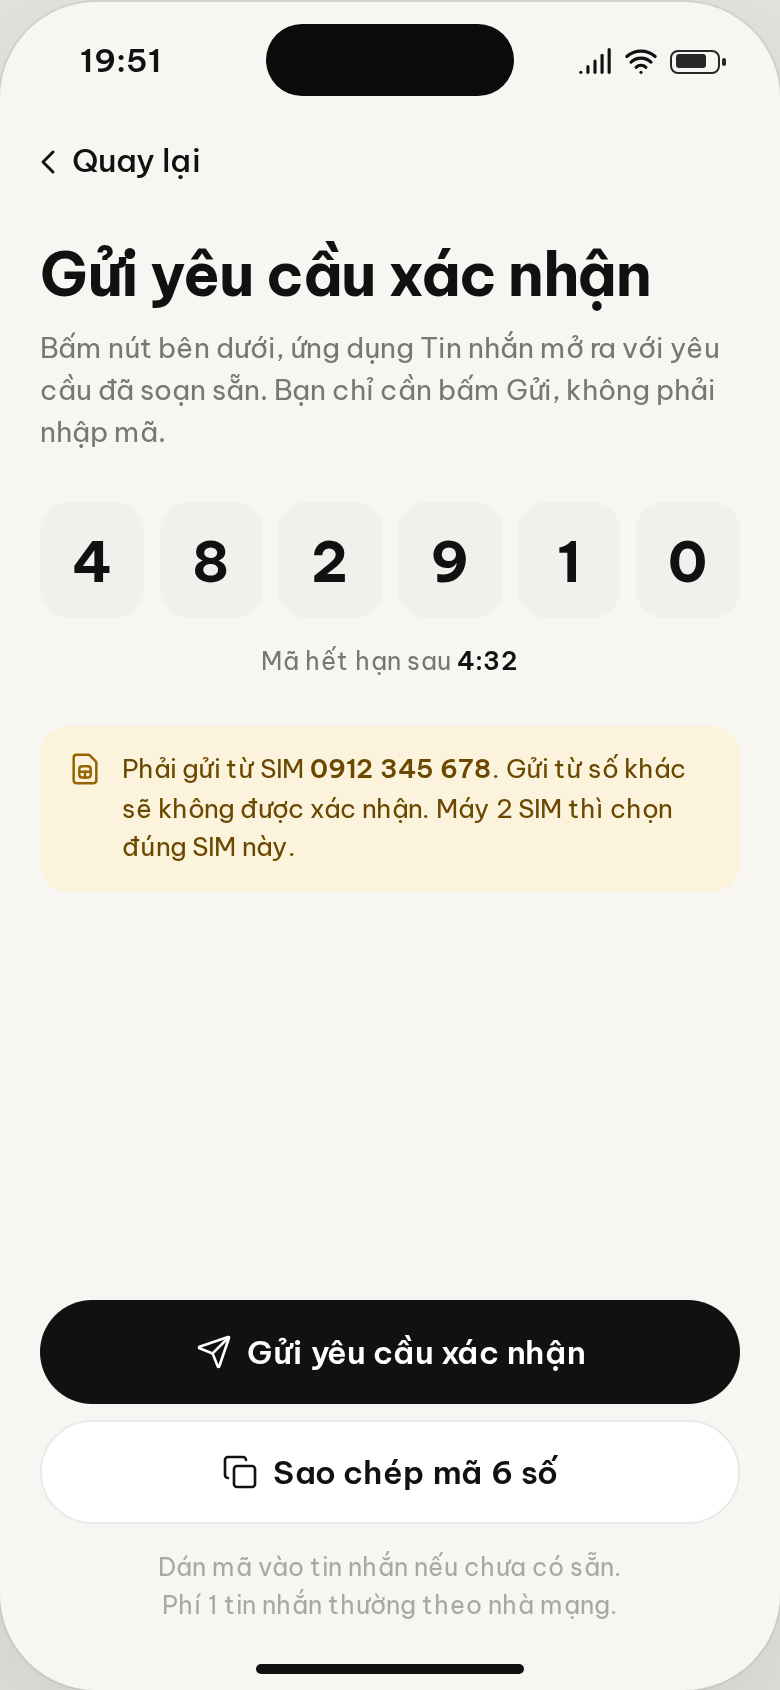
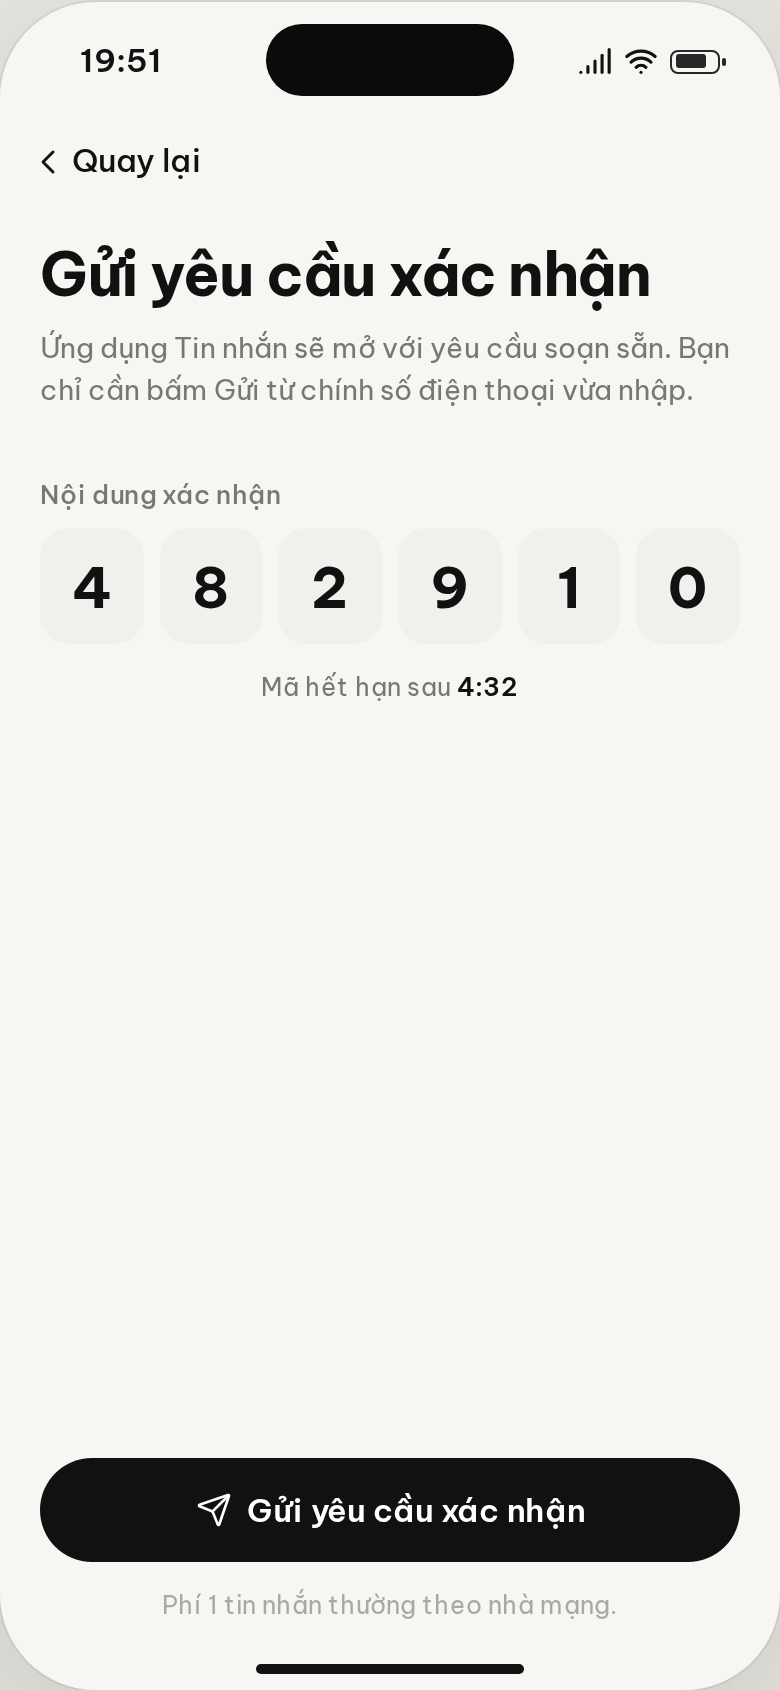
design(phone-otp): bỏ mọi số điện thoại khỏi luồng xác nhận, chỉ còn nội dung xác nhận + nút Gửi yêu cầu xác nhận

diff --git a/design/mockup/index.html b/design/mockup/index.html
@@ -1805,18 +1805,17 @@
           <div class="appbar"><span class="back left"><i data-lucide="chevron-left"></i>Quay lại</span><span></span><span></span></div>
           <div class="pad" style="padding-top:12px">
             <h1 class="headline">Gửi yêu cầu xác nhận</h1>
-            <p class="body-m muted mt-2">Bấm nút bên dưới, ứng dụng Tin nhắn mở ra với yêu cầu đã soạn sẵn. Bạn chỉ cần bấm Gửi, không phải nhập mã.</p>
-            <div class="otp show mt-6 num"><div>4</div><div>8</div><div>2</div><div>9</div><div>1</div><div>0</div></div>
+            <p class="body-m muted mt-2">Ứng dụng Tin nhắn sẽ mở với yêu cầu soạn sẵn. Bạn chỉ cần bấm Gửi từ chính số điện thoại vừa nhập.</p>
+            <div class="field-label mt-8">Nội dung xác nhận</div>
+            <div class="otp show num"><div>4</div><div>8</div><div>2</div><div>9</div><div>1</div><div>0</div></div>
             <div class="center body-s muted mt-3 num">Mã hết hạn sau <b style="color:var(--color-on-surface);font-weight:600">4:32</b></div>
-            <div class="note mt-6" style="background:var(--color-warning-container);color:#6B4800"><i data-lucide="card-sim" style="color:var(--color-warning)"></i><span>Phải gửi từ SIM <b style="font-weight:600">0912 345 678</b>. Gửi từ số khác sẽ không được xác nhận. Máy 2 SIM thì chọn đúng SIM này.</span></div>
           </div>
           <div class="pad" style="position:absolute;left:0;right:0;bottom:34px">
             <button class="btn btn-primary"><i data-lucide="send"></i>Gửi yêu cầu xác nhận</button>
-            <button class="btn btn-secondary mt-2"><i data-lucide="copy"></i>Sao chép mã 6 số</button>
-            <div class="body-s faint center mt-3">Dán mã vào tin nhắn nếu chưa có sẵn.<br>Phí 1 tin nhắn thường theo nhà mạng.</div>
+            <div class="body-s faint center mt-3">Phí 1 tin nhắn thường theo nhà mạng.</div>
           </div>
         </div>
-      </div><div class="frame-cap"><span>50c</span>Mã 6 số, Gửi yêu cầu xác nhận (mở Tin nhắn soạn sẵn), không hiện số máy cổng</div></div>
+      </div><div class="frame-cap"><span>50c</span>Nội dung xác nhận 6 số + Gửi yêu cầu xác nhận, không hiện số điện thoại nào</div></div>
 
       <!-- 50-04 Đang chờ -->
       <div class="frame"><div class="phone" data-shot="50-sdt-04-dang-cho">
@@ -1831,9 +1830,8 @@
             </div>
             <div class="card flush mt-4" style="padding:2px 16px">
               <div class="kv"><span class="k">Mã</span><span class="v num grow">482910</span><span class="body-s muted num">còn 3:58</span></div>
-              <div class="kv"><span class="k">Gửi từ</span><span class="v num grow">0912 345 678</span></div>
             </div>
-            <div class="note mt-4"><i data-lucide="lightbulb"></i><span>Chưa gửi được? Kiểm tra SIM còn tiền, có sóng và đang chọn đúng SIM 0912 345 678.</span></div>
+            <div class="note mt-4"><i data-lucide="lightbulb"></i><span>Chưa gửi được? Kiểm tra SIM còn tiền, có sóng và gửi từ chính số điện thoại bạn vừa nhập.</span></div>
           </div>
           <div class="pad" style="position:absolute;left:0;right:0;bottom:34px">
             <button class="btn btn-secondary"><i data-lucide="send"></i>Gửi lại yêu cầu</button>
@@ -1848,7 +1846,7 @@
           <div class="pad">
             <div class="empty" style="padding-top:150px">
               <span class="bubble xl ok"><i data-lucide="check"></i></span>
-              <div class="title-l mt-6 num">Đã gắn số 0912 ••• 678</div>
+              <div class="title-l mt-6">Đã xác thực số điện thoại</div>
               <p class="body-m muted mt-2" style="max-width:300px">Từ nay bạn lấy lại mật khẩu được bằng số này, ngoài cách qua email.</p>
               <div class="note mt-6" style="text-align:left;max-width:340px"><i data-lucide="mail-check"></i><span>Chúng tôi đã gửi email xác nhận tới <b style="color:var(--color-on-surface);font-weight:600">minhanh.nguyen@gmail.com</b>.</span></div>
             </div>
@@ -1869,7 +1867,7 @@
             <div class="otp show dead mt-6 num"><div>4</div><div>8</div><div>2</div><div>9</div><div>1</div><div>0</div></div>
             <div class="card mt-5" style="padding:16px">
               <div class="hstack" style="--gap:12px;align-items:flex-start"><span class="bubble"><i data-lucide="timer-off"></i></span>
-                <div class="grow"><div class="title-m">Mã đã hết hạn</div><div class="body-s muted mt-1">Mỗi mã dùng được 5 phút. Lấy mã mới rồi gửi lại yêu cầu từ SIM 0912 345 678.</div></div></div>
+                <div class="grow"><div class="title-m">Mã đã hết hạn</div><div class="body-s muted mt-1">Mỗi mã dùng được 5 phút. Lấy mã mới rồi gửi lại yêu cầu.</div></div></div>
             </div>
             <div class="hstack body-s faint mt-4" style="--gap:8px"><i data-lucide="hourglass" style="width:14px;height:14px;flex:none"></i><span class="num">Còn 2 lần lấy mã trong 10 phút</span></div>
           </div>
@@ -1923,7 +1921,7 @@
         <div class="screen">
           <div class="appbar"><span class="back left"><i data-lucide="chevron-left"></i>Đăng nhập</span><span></span><span></span></div>
           <div class="pad" style="padding-top:12px">
-            <div class="ok-banner"><i data-lucide="circle-check"></i><span class="num">Đã xác nhận số 0912 ••• 678</span></div>
+            <div class="ok-banner"><i data-lucide="circle-check"></i><span>Đã xác nhận số điện thoại</span></div>
             <h1 class="headline mt-6">Đặt mật khẩu mới</h1>
             <p class="body-m muted mt-2">Cho tài khoản <span style="color:var(--color-on-surface);font-weight:600">minh•••@gmail.com</span>.</p>
             <div class="mt-6">
@@ -1962,7 +1960,7 @@
           <div style="display:flex;flex-direction:column;align-items:center;text-align:center;padding-top:8px">
             <span class="bubble lg danger"><i data-lucide="phone-off"></i></span>
             <div class="sheet-title mt-4 num" style="font-size:20px">Gỡ số điện thoại?</div>
-            <p class="body-m muted mt-2" style="max-width:320px">Bạn sẽ không lấy lại mật khẩu bằng số <span style="white-space:nowrap">0912 ••• 678</span> được nữa. Cách qua email vẫn dùng bình thường.</p>
+            <p class="body-m muted mt-2" style="max-width:320px">Bạn sẽ không lấy lại mật khẩu bằng số này được nữa. Cách qua email vẫn dùng bình thường.</p>
           </div>
           <label class="field-label mt-5">Nhập mật khẩu để xác nhận</label>
           <div class="input focus"><i data-lucide="lock-keyhole"></i><span class="grow" style="letter-spacing:3px">••••••••••</span></div>

diff --git a/design/mockup/README.md b/design/mockup/README.md
@@ -69,21 +69,21 @@ Admin tương ứng: `../admin-mockup/` mục K, ảnh `../admin-mockup/shots/50
 |---|---|---|
 | 50a | `shots/50-sdt-01-cai-dat.png` | Cài đặt: nhóm mới **Tài khoản** (Đổi mật khẩu, Số điện thoại “Chưa gắn”), dòng gợi ý “Dùng để lấy lại mật khẩu khi quên” |
 | 50b | `shots/50-sdt-02-nhap-so.png` | Gắn số điện thoại: ô số + mật khẩu hiện tại, báo trước bước sau sẽ gửi yêu cầu xác nhận từ số của bạn (1 tin, phí tin thường), Thu Chi không nhắn/gọi; Tiếp tục |
-| 50c | `shots/50-sdt-03-gui-tin.png` | Gửi yêu cầu xác nhận: mã 6 ô 4 8 2 9 1 0, hết hạn sau 4:32, cảnh báo vàng phải gửi từ SIM 0912 345 678; nút **Gửi yêu cầu xác nhận** (mở Tin nhắn soạn sẵn) · Sao chép mã 6 số (dự phòng), phí 1 tin thường. Không hiện số máy cổng |
-| 50d | `shots/50-sdt-04-dang-cho.png` | Quay lại từ Tin nhắn: “Đang chờ xác nhận…” (shimmer chữ + thanh chạy mảnh), tóm tắt mã / gửi từ, gợi ý khi chưa gửi được; Gửi lại yêu cầu · Đổi số khác |
-| 50e | `shots/50-sdt-05-thanh-cong.png` | Đã gắn số 0912 ••• 678, đã gửi email xác nhận; Xong |
-| 50f | `shots/50-sdt-06-loi.png` | Mã đã hết hạn: mã mờ, thẻ trung tính (không đỏ), còn 2 lần lấy mã trong 10 phút; Lấy mã mới · Đổi số khác |
+| 50c | `shots/50-sdt-03-gui-tin.png` | Gửi yêu cầu xác nhận: một dòng giải thích (Tin nhắn mở với yêu cầu soạn sẵn, bấm Gửi từ chính số vừa nhập), **Nội dung xác nhận** 6 ô 4 8 2 9 1 0, hết hạn sau 4:32, nút Gửi yêu cầu xác nhận, phí 1 tin thường. Không hiện số điện thoại nào |
+| 50d | `shots/50-sdt-04-dang-cho.png` | Quay lại từ Tin nhắn: “Đang chờ xác nhận…” (shimmer chữ + thanh chạy mảnh), mã + thời gian còn lại, gợi ý khi chưa gửi được (không kèm số); Gửi lại yêu cầu · Đổi số khác |
+| 50e | `shots/50-sdt-05-thanh-cong.png` | Đã xác thực số điện thoại (không hiện số), đã gửi email xác nhận; Xong |
+| 50f | `shots/50-sdt-06-loi.png` | Mã đã hết hạn: mã mờ, thẻ trung tính (không đỏ, không kèm số), còn 2 lần lấy mã trong 10 phút; Lấy mã mới · Đổi số khác |
 | 50f | `shots/50-sdt-06b-loi-so-da-dung.png` | Biến thể: số đã gắn với tài khoản khác, lỗi đỏ ngay dưới ô số |
 | 50g | `shots/50-sdt-07-quen-mk-chon.png` | Quên mật khẩu: hai thẻ Qua email (mã 6 số trong email) / Qua số điện thoại (gửi yêu cầu xác nhận từ số đã gắn) |
-| 50h | `shots/50-sdt-08-quen-mk-sdt.png` | Quên mật khẩu qua SĐT, bước cuối: banner xanh nhạt “Đã xác nhận số 0912 ••• 678”, hai ô mật khẩu mới, báo sẽ có email |
-| 50i | `shots/50-sdt-09-go-so.png` | Cài đặt đã gắn “0912 ••• 678 · Đã xác thực” + sheet Gỡ số điện thoại? cần mật khẩu, nút Gỡ số (đỏ nhạt) giống sheet Xóa tài khoản |
+| 50h | `shots/50-sdt-08-quen-mk-sdt.png` | Quên mật khẩu qua SĐT, bước cuối: banner xanh nhạt “Đã xác nhận số điện thoại”, hai ô mật khẩu mới, báo sẽ có email |
+| 50i | `shots/50-sdt-09-go-so.png` | Cài đặt đã gắn “0912 ••• 678 · Đã xác thực” + sheet Gỡ số điện thoại? (nói “số này”, không lặp số) cần mật khẩu, nút Gỡ số (đỏ nhạt) giống sheet Xóa tài khoản |
 
 ### Quyết định
-- **Người dùng gửi yêu cầu, Thu Chi không nhắn**: khái niệm trong app là “Gửi yêu cầu xác nhận”, không nói “nhắn tới Thu Chi”. Màn 50c chỉ có một việc là bấm nút này (mở Tin nhắn soạn sẵn người nhận + 6 số). Không có ô nhập mã. **App không bao giờ hiện số máy cổng**, số này chỉ dùng để điền sẵn người nhận. “Sao chép mã 6 số” là dự phòng khi tin chưa có sẵn mã. Câu “phí 1 tin nhắn thường” và “Thu Chi không nhắn/gọi” xuất hiện ở 50b và 50c.
-- **Số gửi phải khớp**: cảnh báo vàng ở 50c (không phải lỗi, là điều kiện) nhắc cả trường hợp máy 2 SIM. 50d nhắc lại “Gửi từ 0912 345 678”.
+- **Người dùng gửi yêu cầu, Thu Chi không nhắn**: khái niệm trong app là “Gửi yêu cầu xác nhận”, không nói “nhắn tới Thu Chi”. Màn 50c chỉ có một việc là bấm nút này (mở Tin nhắn soạn sẵn người nhận + 6 số). Không có ô nhập mã. **App không bao giờ hiện số máy cổng**, số này chỉ dùng để điền sẵn người nhận. Câu “phí 1 tin nhắn thường” và “Thu Chi không nhắn/gọi” xuất hiện ở 50b và 50c.
+- **Không hiện số điện thoại nào trong luồng xác nhận** (50c–50h), kể cả số của chính người dùng: chỉ nhắc “gửi từ chính số điện thoại bạn vừa nhập”. Số (đã che) chỉ hiện ở dòng Cài đặt (50a/50i) và trong ô nhập ở 50b/50f-b. Bỏ cảnh báo SIM và nút Sao chép mã để màn 50c chỉ còn một việc.
 - **Chờ không spinner**: dòng trạng thái shimmer (tắt khi reduce-motion) + thanh chạy mảnh, app tự hỏi trạng thái và tự sang 50e.
 - **Lỗi**: hết hạn dùng thẻ trung tính như OCR 40f (không phải lỗi của người dùng); số đã dùng là lỗi nhập nên hiện đỏ ngay dưới ô, giống lỗi inline ở admin. Hai biến thể tách thành 2 ảnh (50f, 50f-b) thay vì ghép một màn, cho đúng ngữ cảnh mỗi lỗi.
 - **Cài đặt thêm nhóm “Tài khoản”** ngay dưới thẻ hồ sơ, chuyển “Đổi mật khẩu” từ nhóm Ứng dụng vào đây. Quản trị tắt tính năng thì dòng Số điện thoại và thẻ “Qua số điện thoại” ở 50g ẩn.
 - **Quên mật khẩu** giữ đúng bố cục màn 02: app không biết người dùng đã gắn số hay chưa (không lộ thông tin tài khoản), nên luôn hiện cả hai cách kèm ghi chú. Bước nhập số và gửi yêu cầu xác nhận dùng lại màn 50b/50c (không có ô mật khẩu).
-- Dữ liệu: số người dùng 0912 345 678 (hiện che 0912 ••• 678), mã 482910 (số máy cổng 0901 234 567 chỉ có ở admin), email minhanh.nguyen@gmail.com / minh•••@gmail.com như các màn đã duyệt.
+- Dữ liệu: số người dùng 0912 345 678 (chỉ trong ô nhập; Cài đặt hiện che 0912 ••• 678), mã 482910 (số máy cổng 0901 234 567 chỉ có ở admin), email minhanh.nguyen@gmail.com / minh•••@gmail.com như các màn đã duyệt.
 - Thêm CSS ở cuối `styles.css`: `.otp.show`, `.input.error`, `.err-t`, `.ok-banner`, `.kv`, `.indet`, `.opt`. Ảnh chụp bằng `../shoot.mjs` (`cd admin && node ../design/shoot.mjs mockup 50-sdt`).
